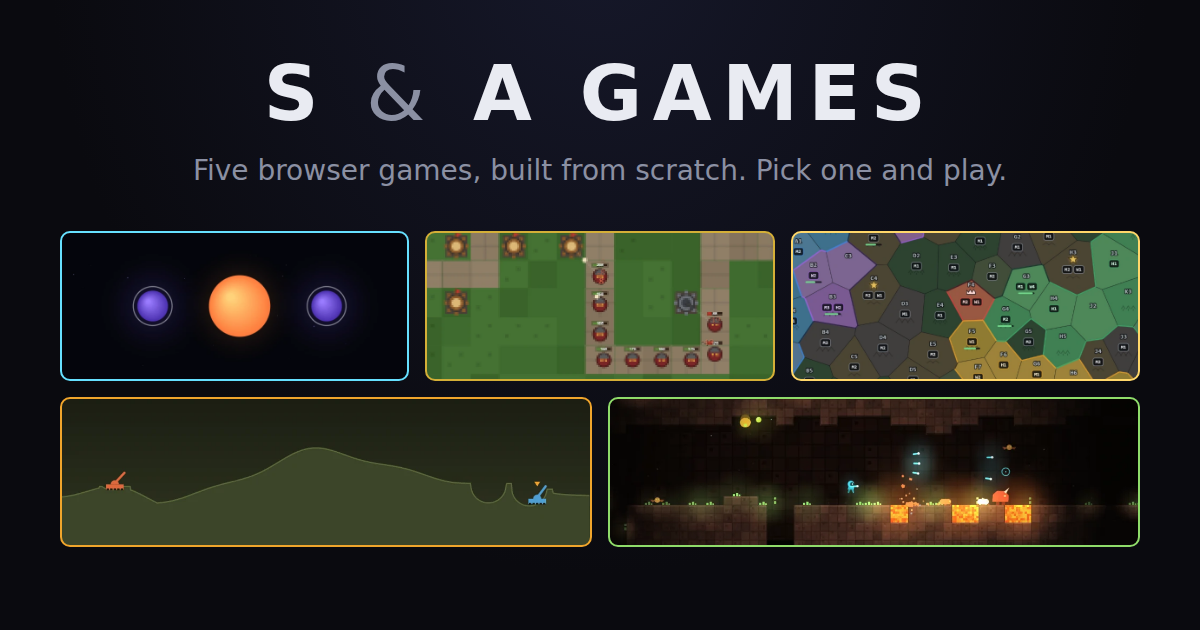
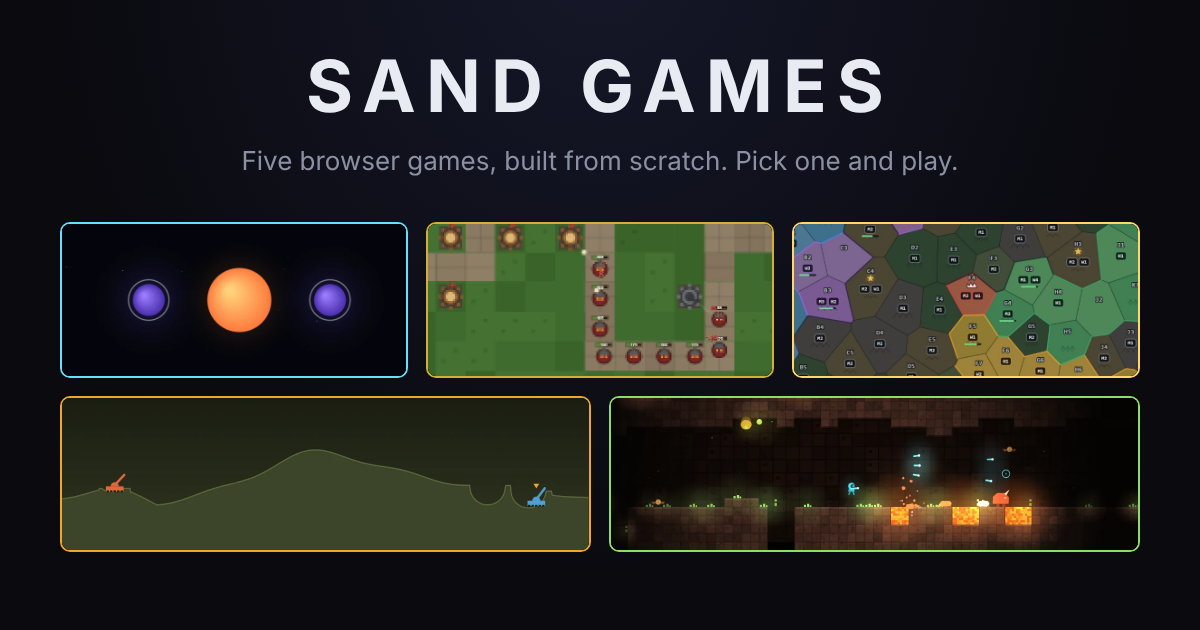
Rename S & A Games to Sand Games
Renames the suite everywhere it is shown to a reader: the landing page
title, og:title, og:image:alt and <h1>, both README and CLAUDE.md
headings, and the two preview configurations in .claude/launch.json
(s-and-a-games -> sand-games).

The <h1> had a muted <span> around the ampersand; with no ampersand left
the span and its one CSS rule go too.

og.png had the old name rendered into the card, so it is regenerated at
the same 1200x630 with the same layout, palette and thumbnails.

URLs are deliberately untouched. Both s-and-a-gam.vercel.app and
s-and-a-games.vercel.app are live and still serve the site after the
Vercel project itself was renamed to sand-games; sand-games.vercel.app
is taken by another account, so there is no cleaner address to move to.
The GitHub link stays on the current repo name until the repo is
renamed, and that rename leaves a redirect behind, so the link keeps
working either way.

Claude-Session: https://claude.ai/code/session_01BgdimepctKjyrRYF7ovmQd

diff --git a/index.html b/index.html
@@ -5,18 +5,18 @@
 <meta name="viewport" content="width=device-width, initial-scale=1">
 <meta name="color-scheme" content="dark">
 <meta name="theme-color" content="#151728">
-<title>S &amp; A Games</title>
+<title>Sand Games</title>
 <meta name="description" content="Five browser games built from scratch: Gravity Golf, Castle Defense, Pentakeover, Tank Duel and Delve. No install, no build step. Pick one and play.">
 <!-- Link previews. The card (og.png, 1200x630) is the shelf of game thumbnails
      under the title; the absolute URL is the Vercel production domain. -->
 <meta property="og:type" content="website">
-<meta property="og:title" content="S &amp; A Games">
+<meta property="og:title" content="Sand Games">
 <meta property="og:description" content="Five browser games built from scratch. Pick one and play.">
 <meta property="og:url" content="https://s-and-a-games.vercel.app/">
 <meta property="og:image" content="https://s-and-a-games.vercel.app/og.png">
 <meta property="og:image:width" content="1200">
 <meta property="og:image:height" content="630">
-<meta property="og:image:alt" content="S &amp; A Games: thumbnails of Gravity Golf, Castle Defense, Pentakeover, Tank Duel and Delve">
+<meta property="og:image:alt" content="Sand Games: thumbnails of Gravity Golf, Castle Defense, Pentakeover, Tank Duel and Delve">
 <meta name="twitter:card" content="summary_large_image">
 <style>
   /* The games are committed dark themes in different styles — sci-fi sans,
@@ -45,7 +45,6 @@
     font-size:clamp(30px,7vw,46px); font-weight:700; letter-spacing:.14em;
     text-transform:uppercase; line-height:1.1;
   }
-  h1 span{color:var(--muted); font-weight:300}
   .tagline{color:var(--muted); margin-top:14px; font-size:clamp(14px,2.4vw,16px)}
 
   /* Five cards on six tracks: three across the top (two tracks each) and two
@@ -200,7 +199,7 @@
 <body>
 <main>
   <header>
-    <h1>S <span>&amp;</span> A Games</h1>
+    <h1>Sand Games</h1>
     <p class="tagline">
       Five browser games, built from scratch. No install, no build step,
       no dependencies &mdash; pick one and play.

diff --git a/CLAUDE.md b/CLAUDE.md
@@ -1,4 +1,4 @@
-# S & A Games
+# Sand Games
 
 Five self-contained browser games: Gravity Golf, Castle Defense, Pentakeover,
 Tank Duel, Delve.
@@ -29,10 +29,10 @@ Two preview configurations in `.claude/launch.json`:
 
 | Name | Command | When |
 |---|---|---|
-| `s-and-a-games` | `python -m http.server 8777` | local development |
-| `s-and-a-games-node` | `node .claude/serve.js . 4173` | anywhere bare `python` may not resolve, including cloud sessions |
+| `sand-games` | `python -m http.server 8777` | local development |
+| `sand-games-node` | `node .claude/serve.js . 4173` | anywhere bare `python` may not resolve, including cloud sessions |
 
-Prefer `s-and-a-games-node` when you are not on the usual Windows machine.
+Prefer `sand-games-node` when you are not on the usual Windows machine.
 
 ## Git
 

diff --git a/README.md b/README.md
@@ -1,4 +1,4 @@
-# S & A Games
+# Sand Games
 
 Five browser games in one repo. None has a build step, a package manager, or a
 single dependency — every game is plain HTML, CSS and JavaScript, and runs by
